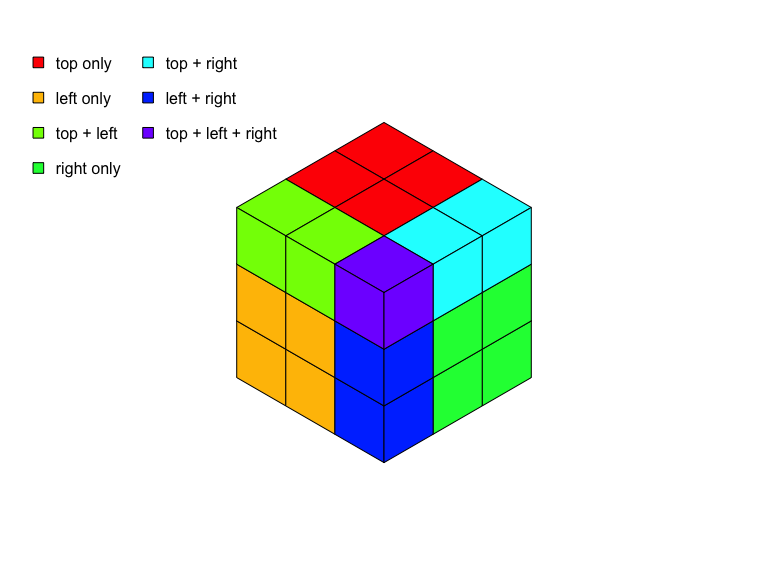
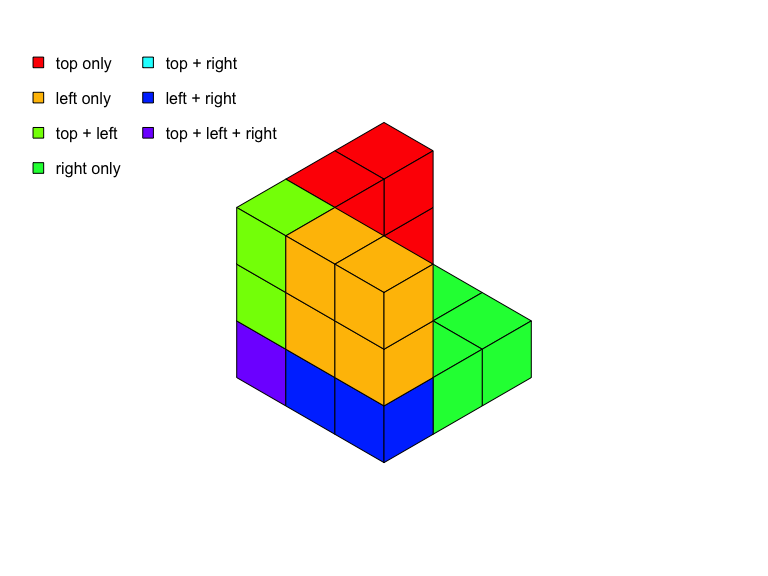
default orientation for vis calc is now flat/right

diff --git a/src/visibility.c b/src/visibility.c
@@ -57,10 +57,10 @@ SEXP visibility_(SEXP x_, SEXP y_, SEXP z_) {
     Rf_error("xc/yc malloc");
   }
   for (int i = 0; i < N; i++) {
-    xc[i] = x[i] - z[i];
+    xc[i] = x[i] - y[i];
     if (xc[i] > xc_max) { xc_max = xc[i]; }
     if (xc[i] < xc_min) { xc_min = xc[i]; }
-    yc[i] = 2 * y[i] + x[i] + z[i];
+    yc[i] = 2 * z[i] + x[i] + y[i];
     if (yc[i] > yc_max) { yc_max = yc[i]; }
     if (yc[i] < yc_min) { yc_min = yc[i]; }
   }
@@ -111,23 +111,28 @@ SEXP visibility_(SEXP x_, SEXP y_, SEXP z_) {
       nvisible++;
     } else {
       int cidx = mat[row][col];
-      if (y[i] > y[cidx] && z[i] < z[cidx] && x[i] < x[cidx]) {
+      if (z[i] > z[cidx] && x[i] < x[cidx] && y[i] < y[cidx]) {
         mat[row][col] = i;
       }
     }
   }
-  
-  // for (int row = cheight - 1; row >= 0; row--) {
-  //   Rprintf("[%i] ", row);
-  //   for (int col = 0; col < cwidth; col++) {
-  //     if (mat[row][col] >= 0) {
-  //       Rprintf("%4i",mat[row][col] + 1);
-  //     } else {
-  //       Rprintf("   .");
-  //     }
-  //   }
-  //   Rprintf("\n");
-  // }
+
+  //~~~~~~~~~~~~~~~~~~~~~~~~~~~~~~~~~~~~~~~~~~~~~~~~~~~~~~~~~~~~~~~~~~~~~~~~~~~
+  // visibility debugging
+  //~~~~~~~~~~~~~~~~~~~~~~~~~~~~~~~~~~~~~~~~~~~~~~~~~~~~~~~~~~~~~~~~~~~~~~~~~~~  
+  if (false) {
+    for (int row = cheight - 1; row >= 0; row--) {
+      Rprintf("[%i] ", row);
+      for (int col = 0; col < cwidth; col++) {
+        if (mat[row][col] >= 0) {
+          Rprintf("%4i",mat[row][col] + 1);
+        } else {
+          Rprintf("   .");
+        }
+      }
+      Rprintf("\n");
+    }
+  }
   
   //~~~~~~~~~~~~~~~~~~~~~~~~~~~~~~~~~~~~~~~~~~~~~~~~~~~~~~~~~~~~~~~~~~~~~~~~~~~
   // Create a data.frame of
@@ -156,11 +161,11 @@ SEXP visibility_(SEXP x_, SEXP y_, SEXP z_) {
         bool visible_left  = true;
         bool visible_right = true;
         
-        // Top visibliti
+        // Top visibility
         if (row < (cheight - 2)) {
           int above_idx = mat[row + 2][col];
           if (above_idx >= 0) {
-            if (y[above_idx] > y[this_idx]) {
+            if (z[above_idx] > z[this_idx]) {
               visible_top = false;
             }
           }
@@ -180,7 +185,7 @@ SEXP visibility_(SEXP x_, SEXP y_, SEXP z_) {
         if (row > 0 && col < (cwidth - 1)) {
           int right_idx = mat[row - 1][col + 1];
           if (right_idx >= 0) {
-            if (z[right_idx] < z[this_idx]) {
+            if (y[right_idx] < y[this_idx]) {
               visible_right = false;
             }
           }
